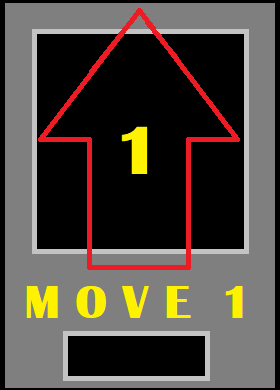
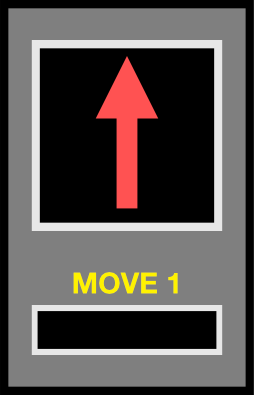
Removed old card design, and changed folders for the current ones

diff --git a/src/main/java/roborally/utilities/AssetManagerUtil.java b/src/main/java/roborally/utilities/AssetManagerUtil.java
@@ -52,35 +52,35 @@ public class AssetManagerUtil {
 
     //region Program cards
     private static final AssetDescriptor<Texture> BACKUP
-            = new AssetDescriptor<>("cards/new/backup.png", Texture.class);
+            = new AssetDescriptor<>("cards/backup.png", Texture.class);
     private static final AssetDescriptor<Texture> ROTATE_LEFT
-            = new AssetDescriptor<>("cards/new/rotate_left.png", Texture.class);
+            = new AssetDescriptor<>("cards/rotate_left.png", Texture.class);
     private static final AssetDescriptor<Texture> ROTATE_RIGHT
-            = new AssetDescriptor<>("cards/new/rotate_right.png", Texture.class);
+            = new AssetDescriptor<>("cards/rotate_right.png", Texture.class);
     private static final AssetDescriptor<Texture> MOVE_1
-            = new AssetDescriptor<>("cards/new/move_1.png", Texture.class);
+            = new AssetDescriptor<>("cards/move_1.png", Texture.class);
     private static final AssetDescriptor<Texture> MOVE_2
-            = new AssetDescriptor<>("cards/new/move_2.png", Texture.class);
+            = new AssetDescriptor<>("cards/move_2.png", Texture.class);
     private static final AssetDescriptor<Texture> MOVE_3
-            = new AssetDescriptor<>("cards/new/move_3.png", Texture.class);
+            = new AssetDescriptor<>("cards/move_3.png", Texture.class);
     private static final AssetDescriptor<Texture> U_TURN
-            = new AssetDescriptor<>("cards/new/u_turn.png", Texture.class);
+            = new AssetDescriptor<>("cards/u_turn.png", Texture.class);
 
     //region Grayscale
     private static final AssetDescriptor<Texture> BACKUP_GRAY
-            = new AssetDescriptor<>("cards/new/backup_gray.png", Texture.class);
+            = new AssetDescriptor<>("cards/gray/backup_gray.png", Texture.class);
     private static final AssetDescriptor<Texture> ROTATE_LEFT_GRAY
-            = new AssetDescriptor<>("cards/new/rotate_left_gray.png", Texture.class);
+            = new AssetDescriptor<>("cards/gray/rotate_left_gray.png", Texture.class);
     private static final AssetDescriptor<Texture> ROTATE_RIGHT_GRAY
-            = new AssetDescriptor<>("cards/new/rotate_right_gray.png", Texture.class);
+            = new AssetDescriptor<>("cards/gray/rotate_right_gray.png", Texture.class);
     private static final AssetDescriptor<Texture> MOVE_1_GRAY
-            = new AssetDescriptor<>("cards/new/move_1_gray.png", Texture.class);
+            = new AssetDescriptor<>("cards/gray/move_1_gray.png", Texture.class);
     private static final AssetDescriptor<Texture> MOVE_2_GRAY
-            = new AssetDescriptor<>("cards/new/move_2_gray.png", Texture.class);
+            = new AssetDescriptor<>("cards/gray/move_2_gray.png", Texture.class);
     private static final AssetDescriptor<Texture> MOVE_3_GRAY
-            = new AssetDescriptor<>("cards/new/move_3_gray.png", Texture.class);
+            = new AssetDescriptor<>("cards/gray/move_3_gray.png", Texture.class);
     private static final AssetDescriptor<Texture> U_TURN_GRAY
-            = new AssetDescriptor<>("cards/new/u_turn_gray.png", Texture.class);
+            = new AssetDescriptor<>("cards/gray/u_turn_gray.png", Texture.class);
     //endregion
     //endregion
 
